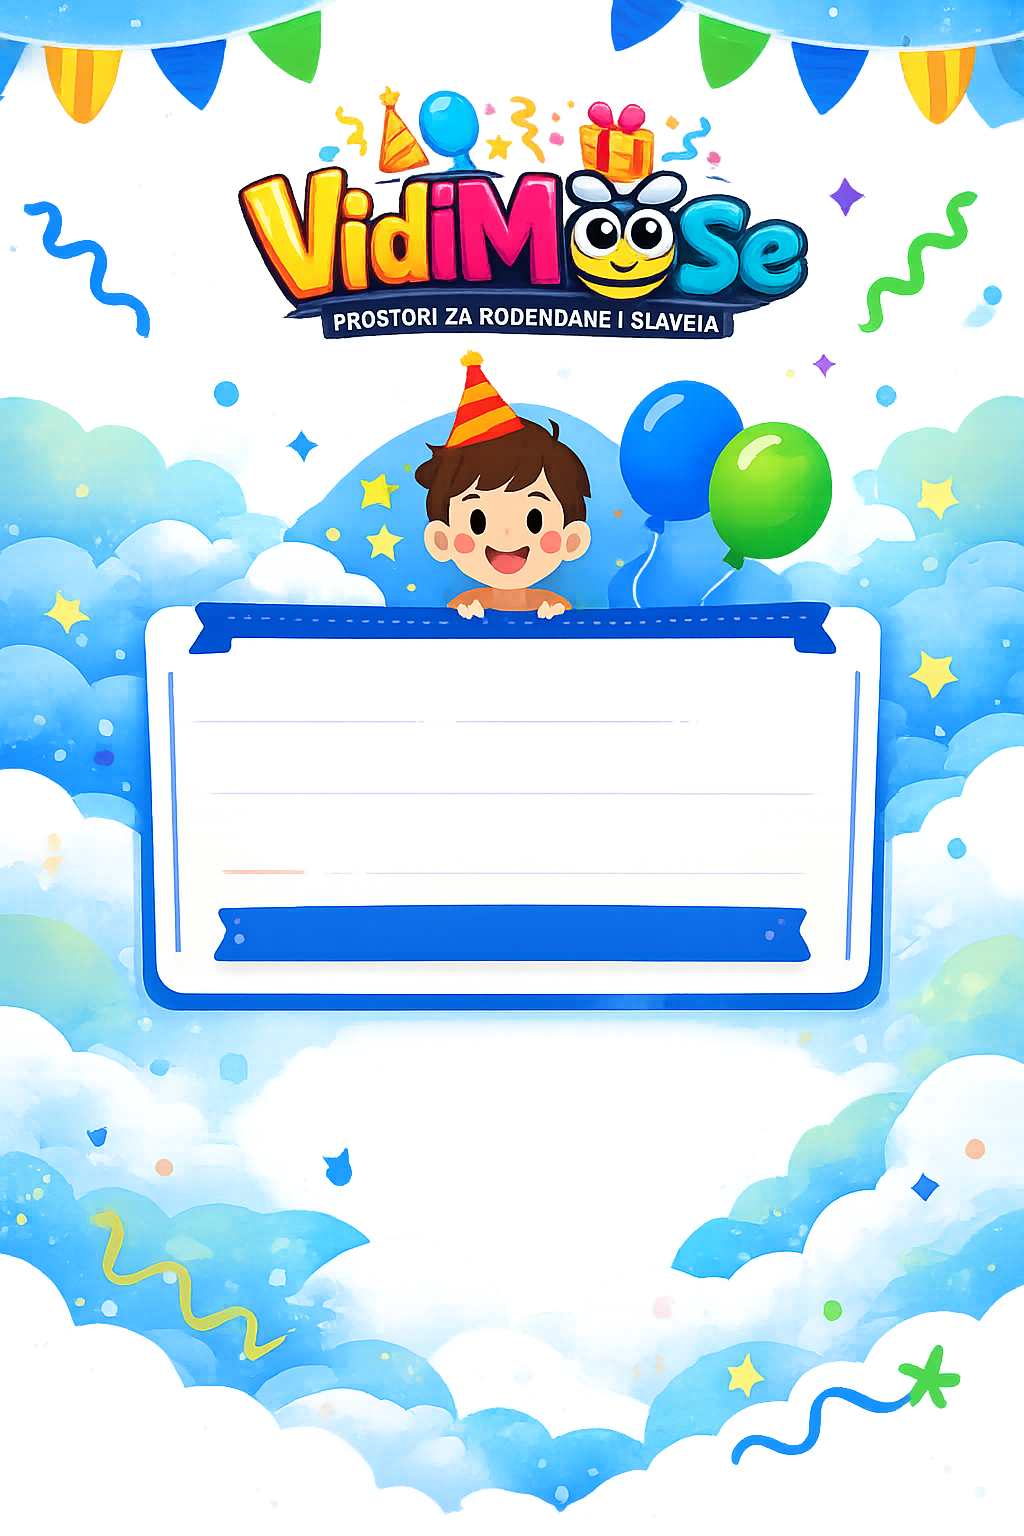
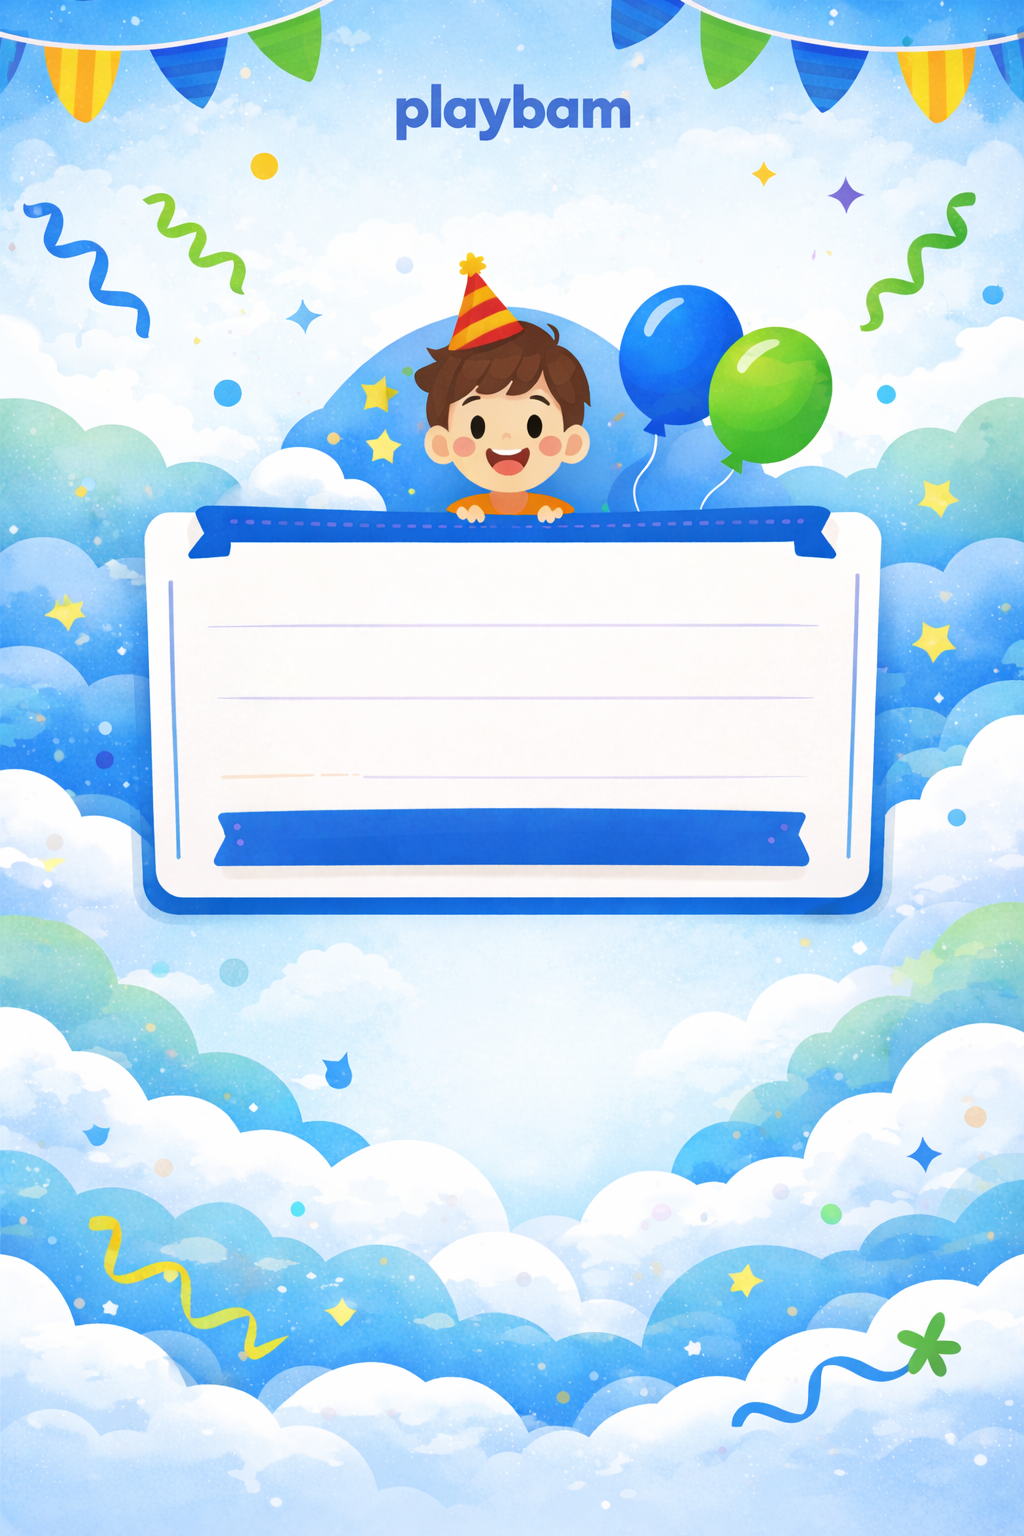
update

diff --git a/src/components/invitation/PublicInvitationHero.tsx b/src/components/invitation/PublicInvitationHero.tsx
@@ -95,7 +95,7 @@ export default function PublicInvitationHero({
         />
 
         <div className="pb-inviteHero__content pb-inviteHero__content--storybook">
-          <img className="pb-inviteHero__logo" src="/playbam-logo.png" alt="Playbam.hr" />
+          <img className="pb-inviteHero__logo" src="/logo.png" alt="Playbam.hr" />
 
           <header className="pb-inviteHero__titleWrap pb-inviteHero__titleWrap--storybook">
             <h1 className="pb-inviteHero__title pb-inviteHero__title--storybook">

diff --git a/src/components/layout/Navbar.tsx b/src/components/layout/Navbar.tsx
@@ -24,7 +24,7 @@ export default function Navbar() {
     <header className="pb-nav">
       <div className="pb-container pb-nav__inner">
         <div className="pb-brand" aria-label="Playbam.hr">
-          <img src="/playbam-logo.png" alt="Playbam.hr" className="pb-brand__mark" />
+          <img src="/logo.png" alt="Playbam.hr" className="pb-brand__mark" />
         </div>
 
         <nav className="pb-nav__links" aria-label="Glavna navigacija">
